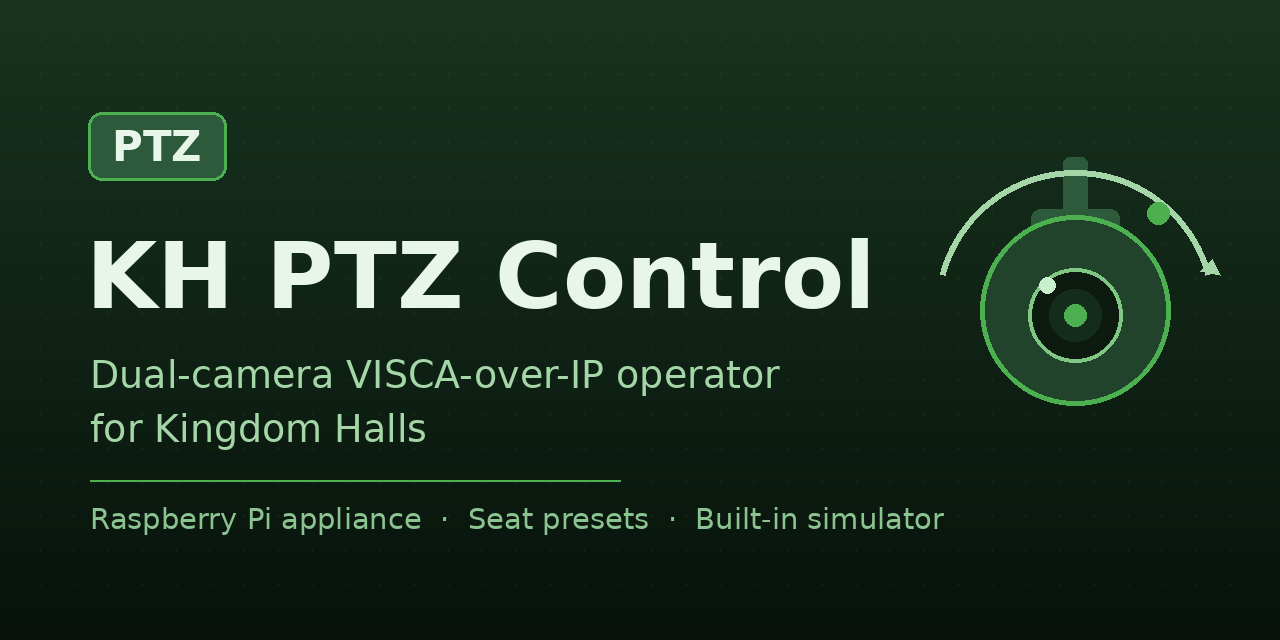
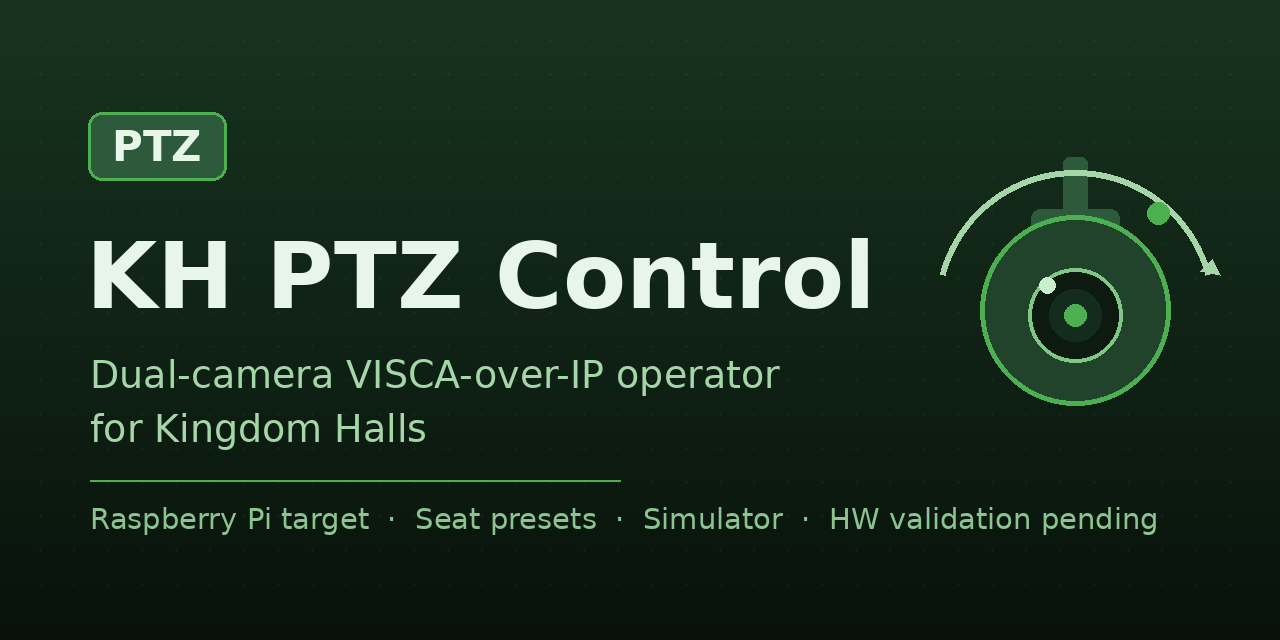
docs: honest claims per review
- Banner: 'Raspberry Pi target' + 'HW validation pending' (was
  'appliance', which implied a finished product)
- Intro EN/ES: MVP candidate with hardware validation pending (was
  'used in live meetings', unverified)
- STOP: queued with priority, physical stopping depends on camera and
  network (was 'atomically, never left turning', too absolute)
- Requirements: reference baseline not yet validated on real hardware
  (was 'exact, tested baseline'); cameras designed for common heads,
  not yet validated (was 'tested with')

Changed region(s): [[0.2188, 0.7812, 0.9062, 0.8438]]

diff --git a/README.md b/README.md
@@ -7,8 +7,8 @@ Raspberry Pi. The operator taps a seat on a visual layout of the auditorium and 
 cameras frame that person, so friends commenting from the audience can be seen on the
 hall's displays and on the video stream during the meeting.
 
-Free and open-source (MIT). Built for a real hall and used in live meetings; any hall
-may use it freely.
+Free and open-source (MIT). Built for a real hall as an installable MVP candidate;
+hardware validation is still pending. Any hall may use it freely.
 
 ![KH PTZ Control banner](docs/screenshots/banner.png)
 
@@ -34,8 +34,8 @@ may use it freely.
 Cameras move; safety is not negotiable. The control path is built so that STOP always
 wins:
 
-- A STOP command sends a **pan/tilt stop and a zoom stop together, atomically**, so the
-  head can never be left turning or zooming.
+- A STOP command **queues a pan/tilt stop and a zoom stop together with priority**;
+  physical stopping then depends on the camera and the network.
 - STOP commands travel in a **priority queue** that bypasses every pending movement.
 - If the command queue is full, **new movement commands are dropped — never a STOP**.
 - Closing the app or ending a session stops every configured camera.
@@ -52,9 +52,11 @@ wins:
 ## Requirements
 
 - Raspberry Pi 4 or 5 with Raspberry Pi OS **Bookworm (X11 session)** — see
-  [docs/INSTALL_RPI.md](docs/INSTALL_RPI.md) for the exact, tested baseline.
+  [docs/INSTALL_RPI.md](docs/INSTALL_RPI.md) for the reference baseline (not yet validated
+  on real hardware).
 - A touchscreen (the UI is designed for touch) and network access to the cameras.
-- One or two VISCA-over-IP PTZ cameras (tested with common AV/PTZ heads).
+- One or two VISCA-over-IP PTZ cameras (designed for common AV/PTZ heads; not yet
+  validated on real cameras).
 - Python 3.11+ with PyQt5 (installed from `apt` on Raspberry Pi OS).
 
 ## Install
@@ -116,8 +118,9 @@ una Raspberry Pi. El operador toca un asiento en un plano visual del auditorio y
 cámaras encuadran a esa persona, para que los hermanos que comentan desde el público se
 vean en las pantallas del salón y en la transmisión durante la reunión.
 
-Libre y de código abierto (MIT). Construido para un salón real y usado en reuniones en
-directo; cualquier salón puede usarlo gratis.
+Libre y de código abierto (MIT). Construido para un salón real como candidato MVP
+instalable; la validación en hardware real aún está pendiente. Cualquier salón puede
+usarlo gratis.
 
 ## Qué hace
 
@@ -140,8 +143,8 @@ directo; cualquier salón puede usarlo gratis.
 Las cámaras se mueven; la seguridad no es negociable. El camino de control está hecho
 para que STOP siempre gane:
 
-- Un comando STOP envía **parada de pan/tilt y parada de zoom juntas, de forma
-  atómica**, para que la cámara nunca se quede girando ni haciendo zoom.
+- Un comando STOP **encola la parada de pan/tilt y la de zoom juntas, con prioridad**;
+  la parada física depende después de la cámara y de la red.
 - Los STOP viajan en una **cola prioritaria** que adelanta cualquier movimiento
   pendiente.
 - Si la cola está llena, **se descartan los nuevos comandos de movimiento — nunca un
@@ -151,8 +154,9 @@ para que STOP siempre gane:
 
 ## Requisitos
 
-- Raspberry Pi 4 o 5 con Raspberry Pi OS **Bookworm (sesión X11)** — la base exacta
-  probada está en [docs/INSTALL_RPI.md](docs/INSTALL_RPI.md).
+- Raspberry Pi 4 o 5 con Raspberry Pi OS **Bookworm (sesión X11)** — la base de
+  referencia (aún no validada en hardware real) está en
+  [docs/INSTALL_RPI.md](docs/INSTALL_RPI.md).
 - Pantalla táctil (la interfaz está pensada para tacto) y red hacia las cámaras.
 - Una o dos cámaras PTZ VISCA-over-IP.
 - Python 3.11+ con PyQt5 (instalado desde `apt` en Raspberry Pi OS).
